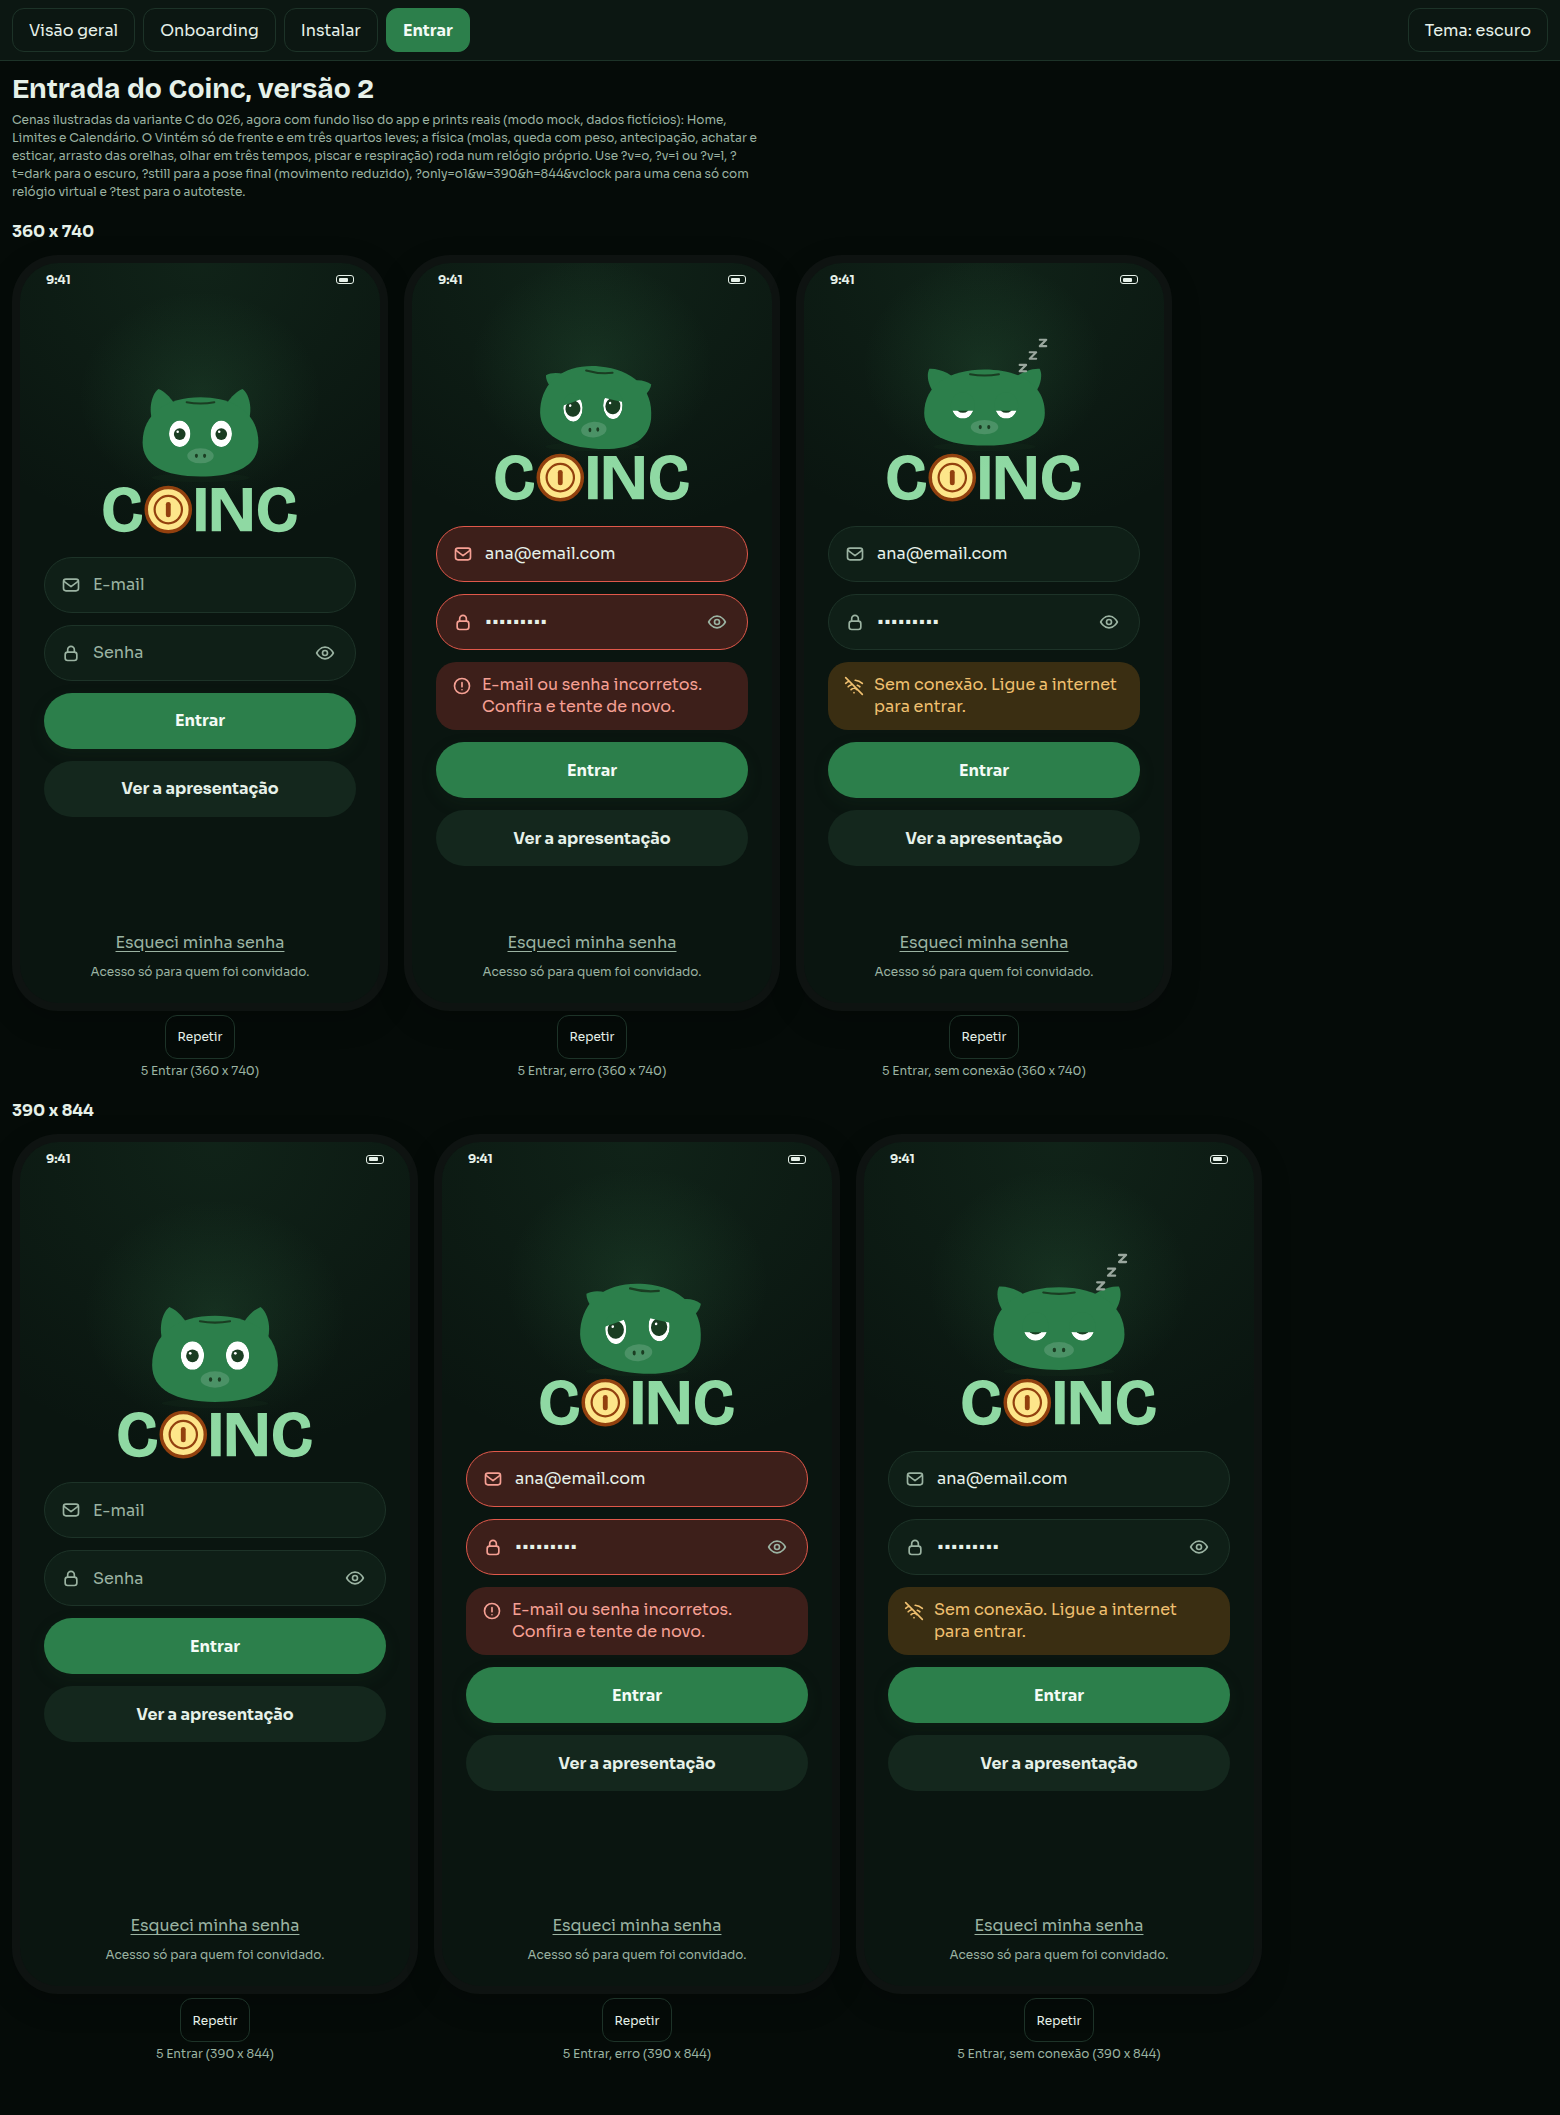
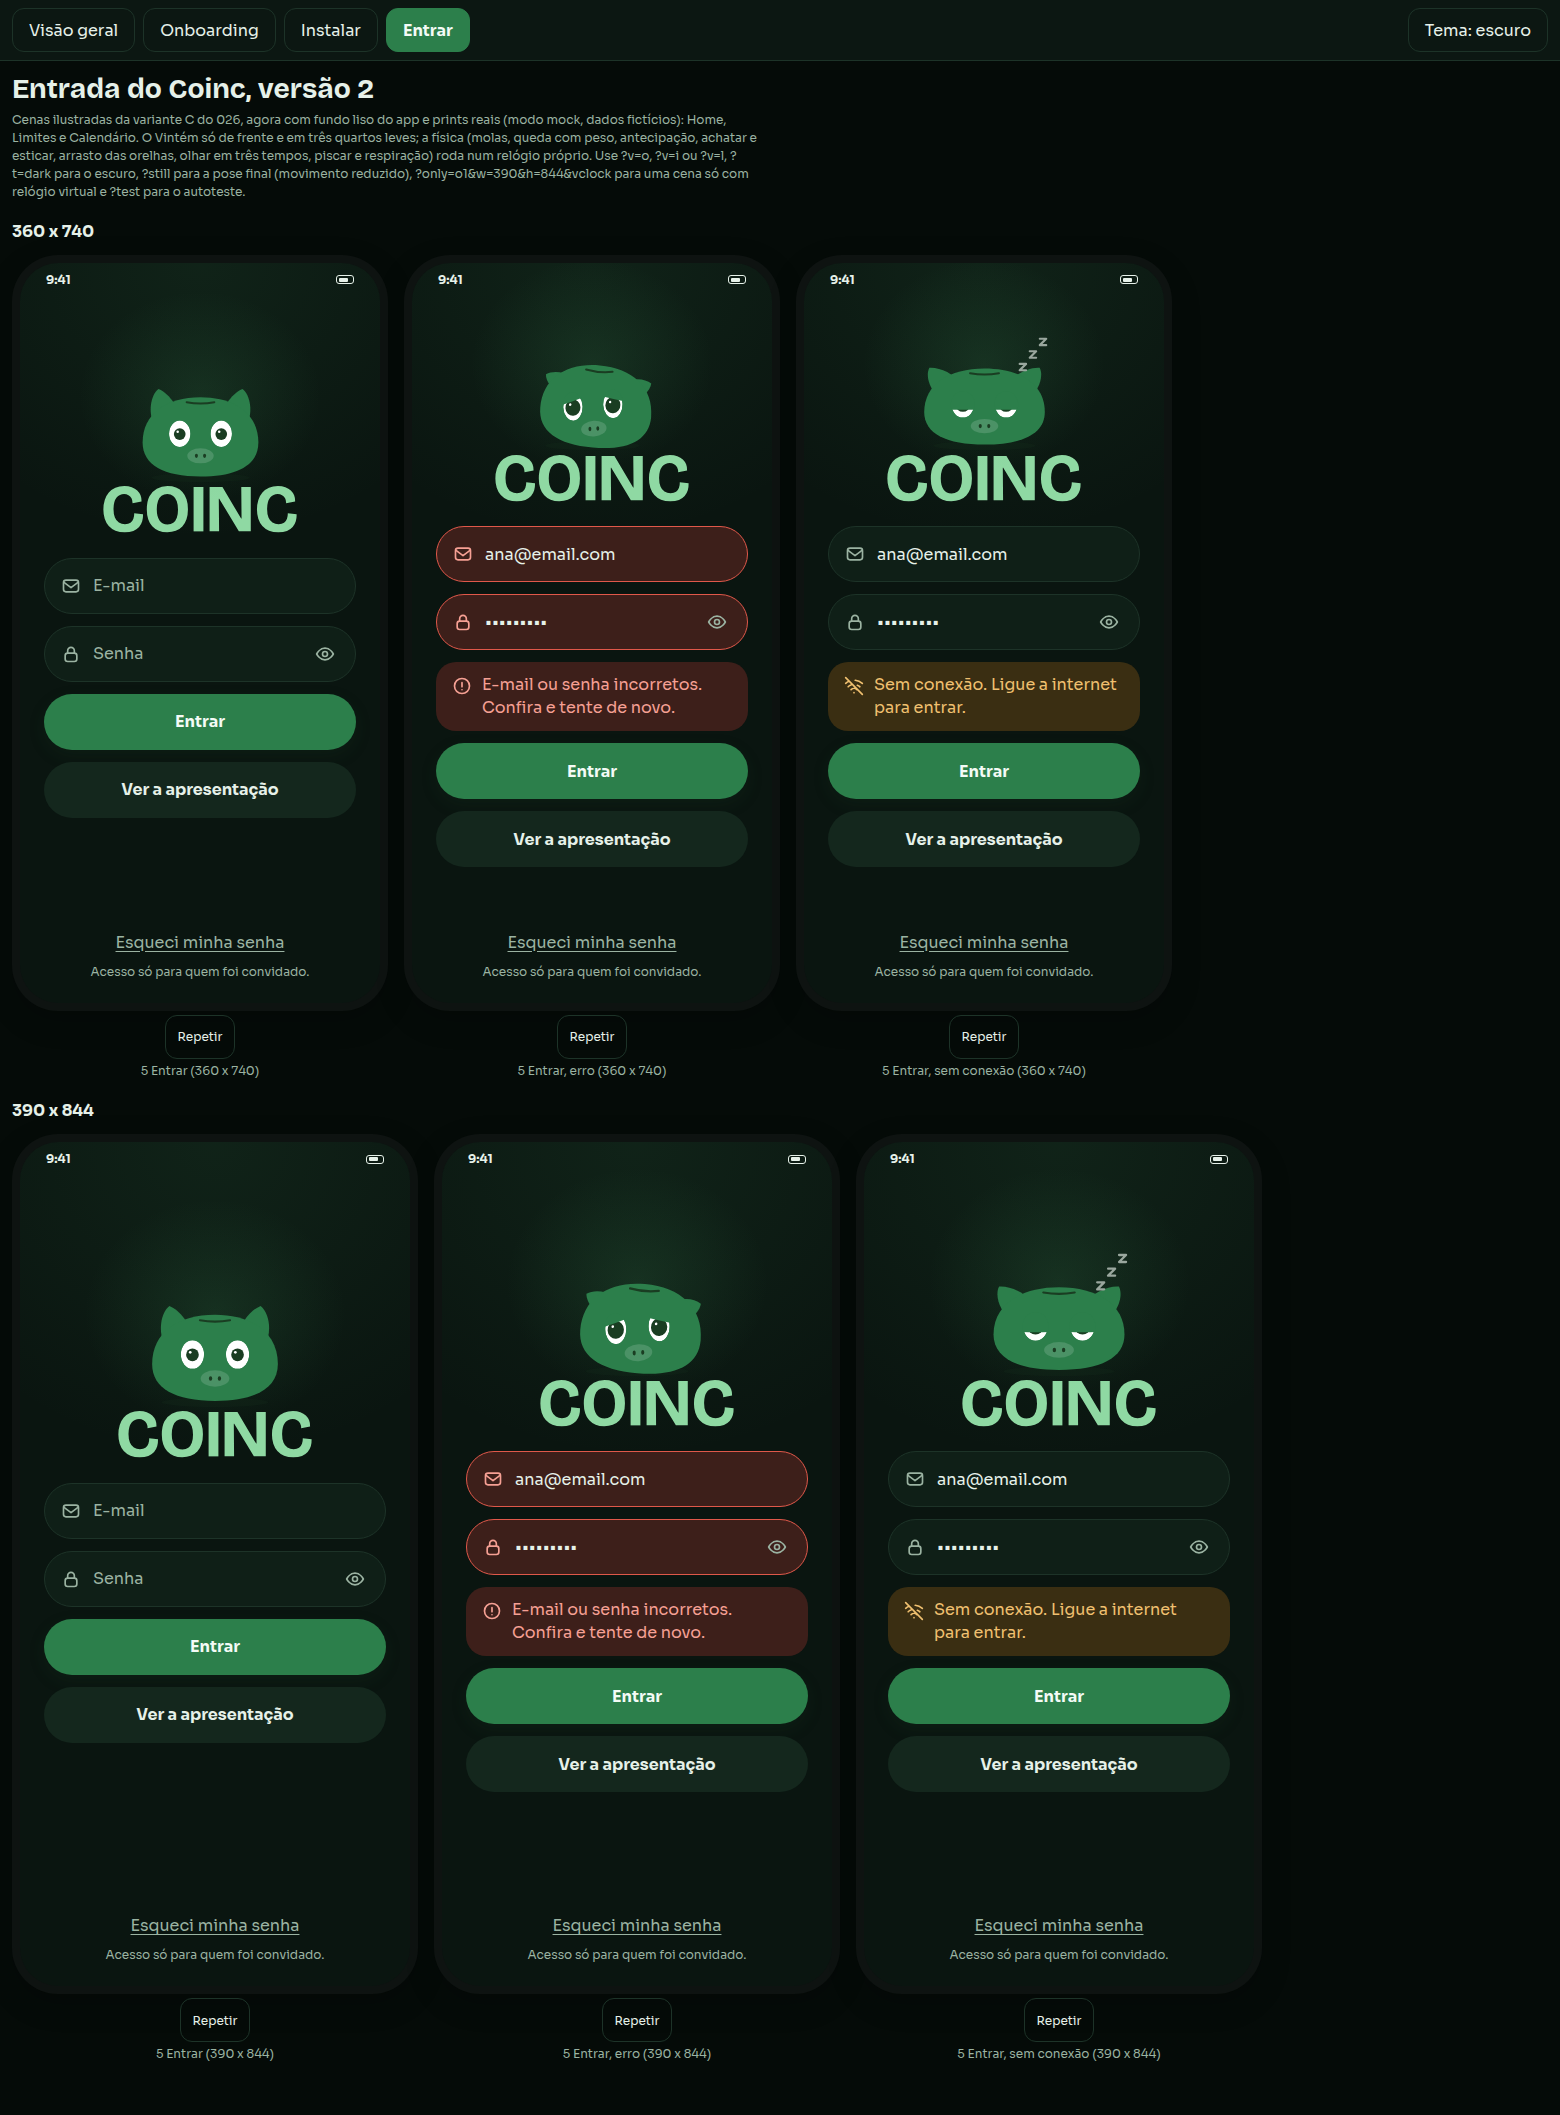
feat(05): wordmark COINC sem a moeda (O da própria fonte) no sketch 029

diff --git a/.planning/sketches/029-entrada-v2/index.html b/.planning/sketches/029-entrada-v2/index.html
@@ -434,17 +434,14 @@ var IC={
 };
 function ic(n,s,sw){return '<svg width="'+s+'" height="'+s+'" viewBox="0 0 24 24" fill="none" stroke="currentColor" stroke-width="'+(sw||2)+'" stroke-linecap="round" stroke-linejoin="round" aria-hidden="true" focusable="false">'+IC[n]+'</svg>'}
 function wordmark(){
- /* COINC em maiusculas, glifos reais do Bricolage 700 (a fonte dos numeros do app) como paths; o O e a moeda ambar */
- var order=['C','O','I','N','C'],gap={'CO':64,'OI':88,'IN':92,'NC':92},x=0,h='',prev=null,CAP=660,R=336,coin=null;
- order.forEach(function(ch,i){
+ /* COINC em maiusculas, glifos reais do Bricolage 700 (a fonte dos numeros do app) como paths */
+ var order=['C','O','I','N','C'],gap={'CO':56,'OI':84,'IN':92,'NC':92},x=0,h='',prev=null,CAP=660;
+ order.forEach(function(ch){
   var gl=WG[ch];if(prev)x+=gap[prev+ch];
-  if(ch==='O'){coin=x+R;x+=2*R;prev='O';return}
   h+='<path transform="translate('+(x-gl.x0).toFixed(1)+' '+CAP+') scale(1 -1)" d="'+gl.d+'" fill="var(--okink)"/>';
   x+=gl.x1-gl.x0;prev=ch;
  });
  var W=x;
- var cn=coinG(R).replace(/stroke-width="[\d.]+"/,'stroke-width="'+(R*.16)+'"');
- h+='<g transform="translate('+coin.toFixed(1)+' '+(CAP/2)+')">'+cn+'</g>';
  return '<div class="wm" role="img" aria-label="Coinc"><svg viewBox="-20 -30 '+(W+40)+' '+(CAP+60)+'" aria-hidden="true" focusable="false">'+h+'</svg></div>';
 }
 

diff --git a/.planning/sketches/029-entrada-v2/src/scenes.js b/.planning/sketches/029-entrada-v2/src/scenes.js
@@ -11,17 +11,14 @@ var IC={
 };
 function ic(n,s,sw){return '<svg width="'+s+'" height="'+s+'" viewBox="0 0 24 24" fill="none" stroke="currentColor" stroke-width="'+(sw||2)+'" stroke-linecap="round" stroke-linejoin="round" aria-hidden="true" focusable="false">'+IC[n]+'</svg>'}
 function wordmark(){
- /* COINC em maiusculas, glifos reais do Bricolage 700 (a fonte dos numeros do app) como paths; o O e a moeda ambar */
- var order=['C','O','I','N','C'],gap={'CO':64,'OI':88,'IN':92,'NC':92},x=0,h='',prev=null,CAP=660,R=336,coin=null;
- order.forEach(function(ch,i){
+ /* COINC em maiusculas, glifos reais do Bricolage 700 (a fonte dos numeros do app) como paths */
+ var order=['C','O','I','N','C'],gap={'CO':56,'OI':84,'IN':92,'NC':92},x=0,h='',prev=null,CAP=660;
+ order.forEach(function(ch){
   var gl=WG[ch];if(prev)x+=gap[prev+ch];
-  if(ch==='O'){coin=x+R;x+=2*R;prev='O';return}
   h+='<path transform="translate('+(x-gl.x0).toFixed(1)+' '+CAP+') scale(1 -1)" d="'+gl.d+'" fill="var(--okink)"/>';
   x+=gl.x1-gl.x0;prev=ch;
  });
  var W=x;
- var cn=coinG(R).replace(/stroke-width="[\d.]+"/,'stroke-width="'+(R*.16)+'"');
- h+='<g transform="translate('+coin.toFixed(1)+' '+(CAP/2)+')">'+cn+'</g>';
  return '<div class="wm" role="img" aria-label="Coinc"><svg viewBox="-20 -30 '+(W+40)+' '+(CAP+60)+'" aria-hidden="true" focusable="false">'+h+'</svg></div>';
 }
 
